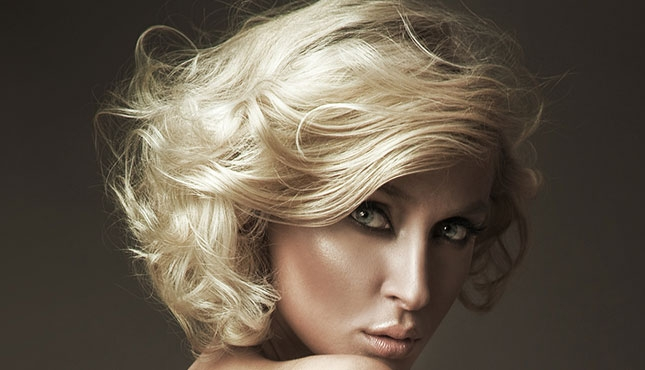
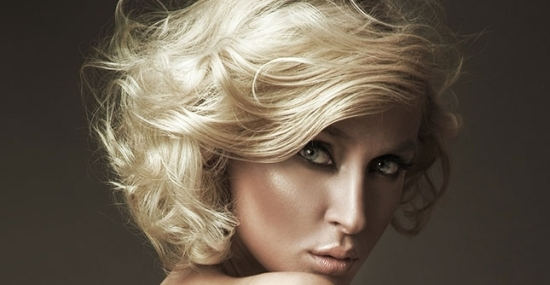
Styles

diff --git a/bootstrap/jenny.html b/bootstrap/jenny.html
@@ -27,7 +27,7 @@
 		}
 		
 		.logo {
-			margin-top:25px;
+			margin-top:30px;
 			float:left;
 			width:320px;
 		}
@@ -113,7 +113,7 @@
 		.banner { 
 			position: relative; 
 			overflow: hidden; 
-			height:344px; 
+			height:303px; 
 			width:100%;
 			background-color:#222222;
 			border-bottom:1px solid #abacac;
@@ -121,14 +121,19 @@
 		}
 		
 		.banner img {
+			position: absolute; 
+			top: 0px; 
+			left: 0px;
 			border-top:1px solid #abacac;
 			border-right:1px solid #abacac;
 			border-left:1px solid #abacac;
-			position: absolute; 
-			top: 9px; 
-			left: 278px; 
-			width: 645px; 
+		}
+		
+		.fadein {
+			position: relative;
+			width: 550px; 
 			height:334px;
+			margin-top:17px;
 		}
 		
 		.bottom {
@@ -152,11 +157,10 @@
 		}
 		
 		.banner-overlay {
-			width:300px;
+			margin-top:57px;
 			text-align:left;
-			float:right;
-			margin-top:60px;
-			margin-right:140px;
+			width:333px;
+			margin-left:40px;
 		}
 		
 		dt {
@@ -188,6 +192,10 @@
 			}
 			
 			.col-lg-4 {
+				float:left;
+			}
+			
+			.col-lg-6 {
 				float:left;
 			}
 			
@@ -241,16 +249,20 @@
 	</div>
 	<div class="banner">
 		<div class="container">
-			<div class="fadein">
-				<img src="hd.jpg" />
-				<img src="hd2.jpg" />
-				<img src="hd4.jpg" />
+			<div class="col-lg-6">
+				<div class="fadein">
+					<img src="hd.jpg" />
+					<img src="hd2.jpg" />
+					<img src="hd4.jpg" />
+				</div>
 			</div>
-			<div class="banner-overlay">
-				<p>
-					Jenny is a Hair Stylist based in the Gentry saloon, Exeter, EX1. "I have been hair styling for 16 years. I love it! Looking good is feeling good..." Ut enim ad minim veniam, quis nostrud exercitation ullamco laboris nisi ut aliquip ex ea commodo consequat. <br /><a href="" class="selected">Read more</a>
-				</p>		
-				<h4 style="margin-bottom:0;">Tel: 01392 278426</h4>
+			<div class="col-lg-6">
+				<div class="banner-overlay">
+					<p>
+						Jenny is a Hair Stylist based in the Gentry saloon, Exeter, EX1. "I have been hair styling for 16 years. I love it! Looking good is feeling good..." Ut enim ad minim veniam, quis nostrud exercitation ullamco laboris nisi ut aliquip ex ea commodo consequat. <br /><a href="" class="selected">Read more</a>
+					</p>		
+					<h4>Tel: 01392 278426</h4>
+				</div>
 			</div>
 		</div>
 	</div>
